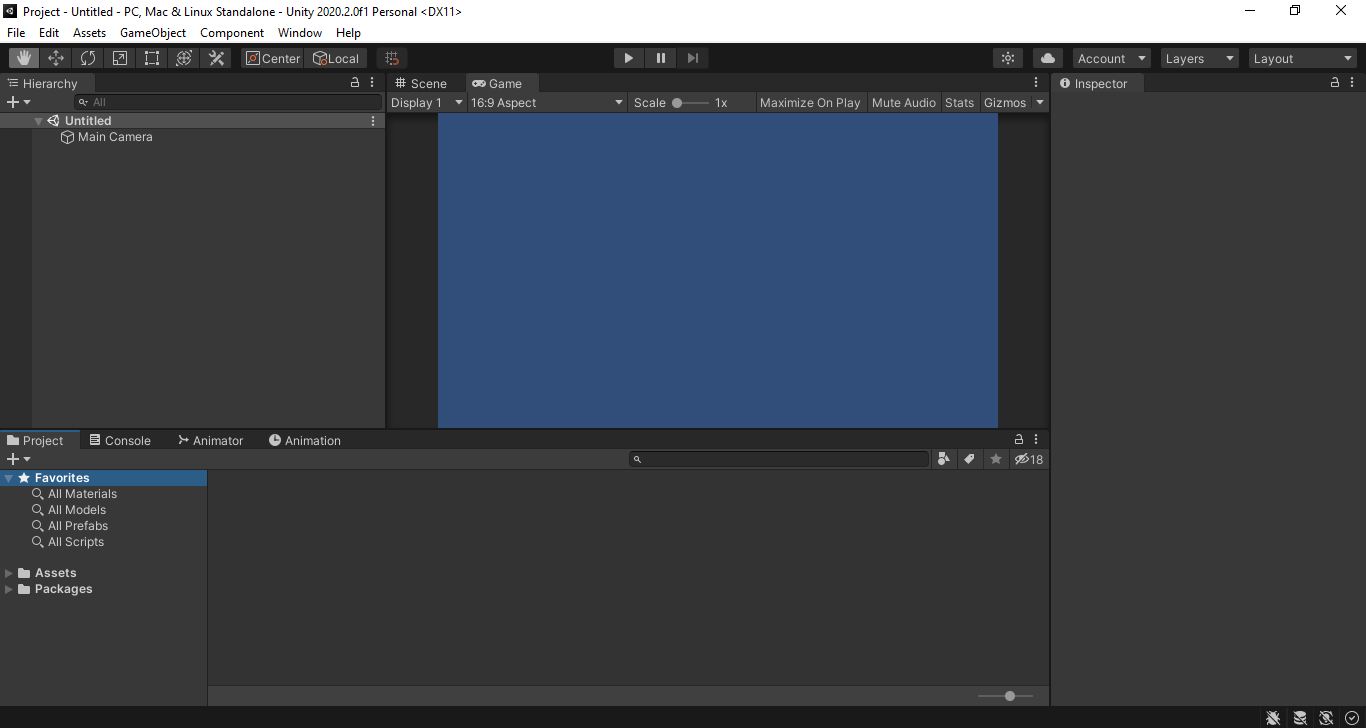
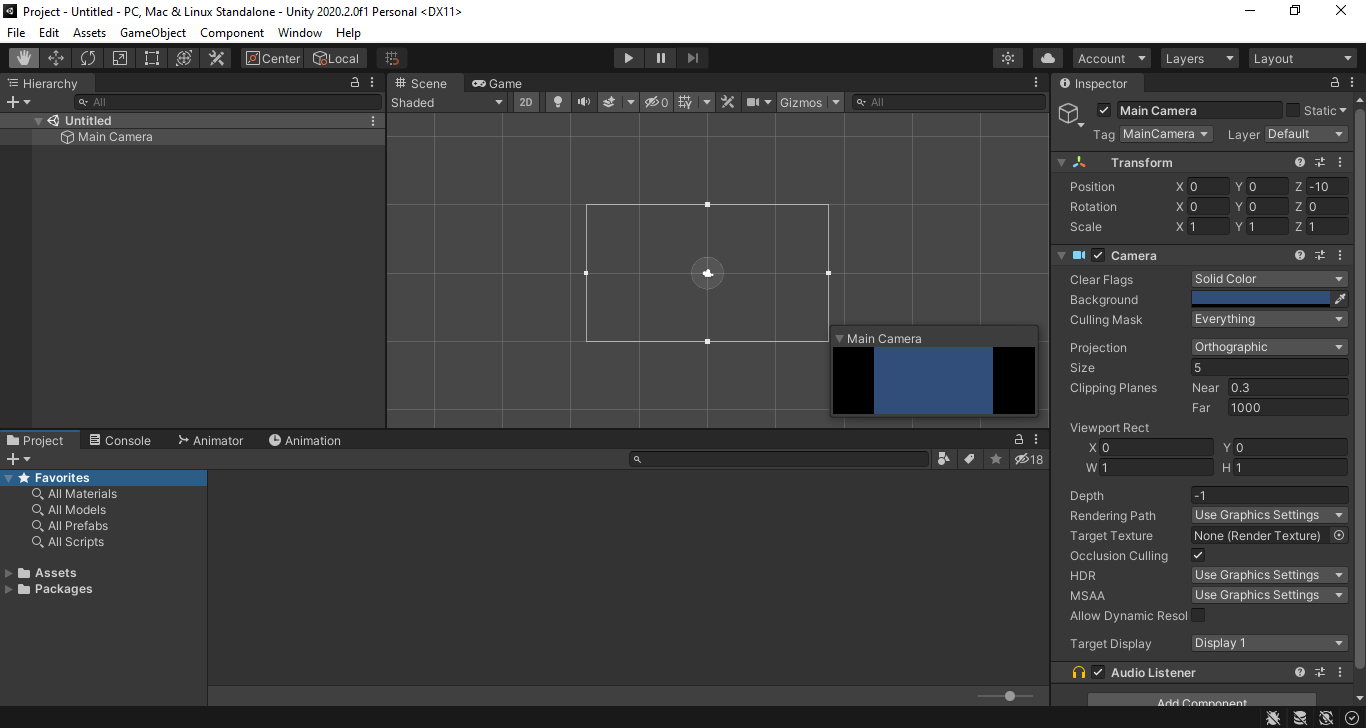
Update Unity Layout on Modul

diff --git a/README.md b/README.md
@@ -29,16 +29,31 @@ Assets Sprite untuk modul ini dapat di download di [Unlucid Adopted Assets](http
 
 ## D. Pengenalan Layout Unity
 ### Scene View
+
+![LayoutUnity-SceneView](/Images/LayoutUnity-SceneView.png)
+
 - Menjelaskan Scene View
 - Menjelaskan Project
 - Menjelaskan Scene
 ### Game View
+
+![LayoutUnity-GameView](/Images/LayoutUnity-GameView.png)
+
 - Menjelaskan Game View
 ### Project Window
+
+![LayoutUnity-ProjectWindow](/Images/LayoutUnity-ProjectWindow.png)
+
 - Menjelaskan Project Window
 ### Hierarchy
+
+![LayoutUnity-Hierarchy](/Images/LayoutUnity-Hierarchy.png)
+
 - Menjelaskan Hierarchy
 ### Inspector
+
+![LayoutUnity-Inspector](/Images/LayoutUnity-Inspector.png)
+
 - Menjelaskan Inspector
 - Menjelaskan GameObject
 - Menjelaskan Transform
